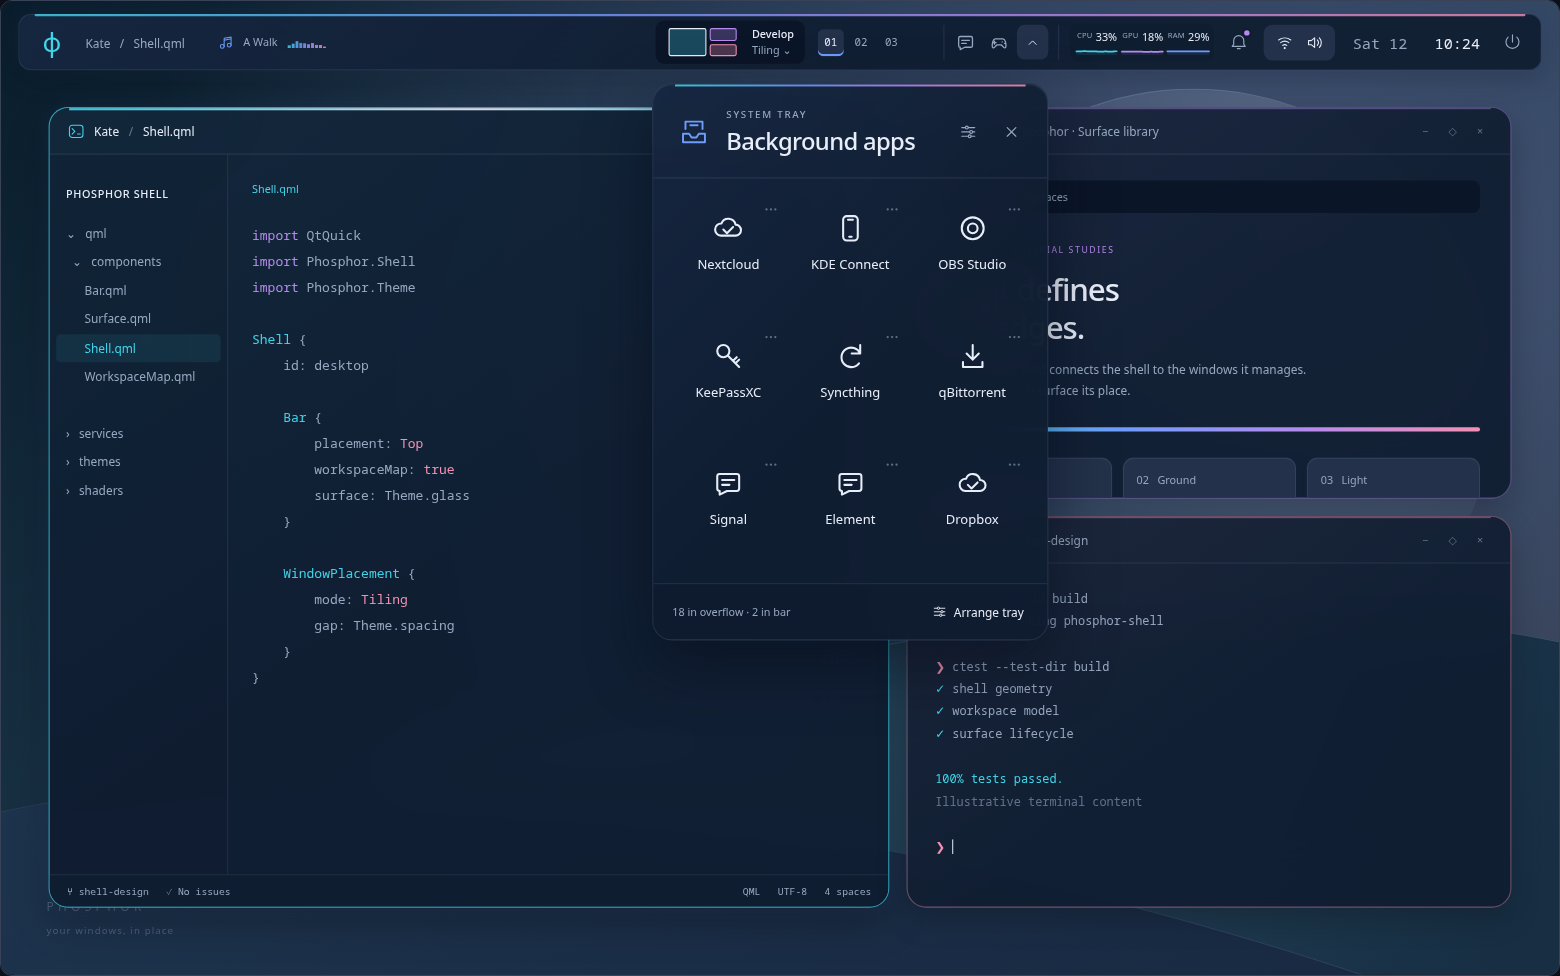
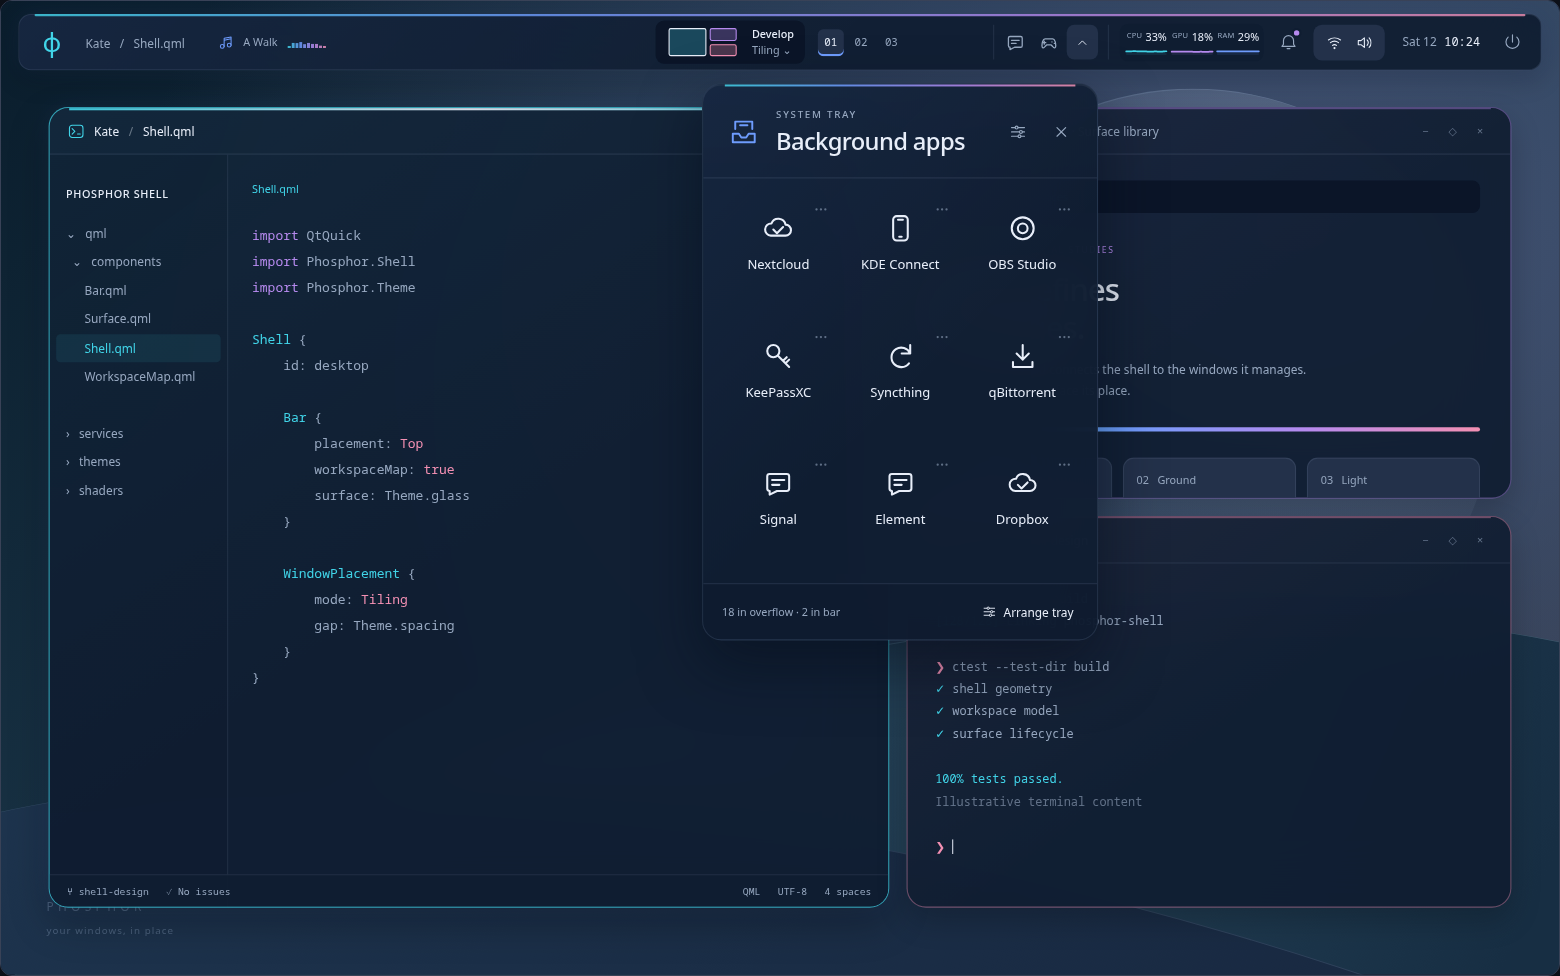
fix(design): tighten bar date and time typography

diff --git a/docs/design/mockups-v3/studies.js b/docs/design/mockups-v3/studies.js
@@ -133,7 +133,7 @@ function renderBar() {
     <div class="bar-right">${systemTray.barMarkup()}${systemStats.barMarkup()}
     <button class="bar-notifications" data-view="notifications" data-unread="${notificationCenter.unread()>0}" aria-label="Notifications, ${notificationCenter.unread()} unread" aria-expanded="${state.view==='notifications'&&notificationCenter.inboxOpen()}" aria-controls="notifications">${icon('bell')}</button>
     <button class="status-cluster" data-view="controls" aria-label="Open quick settings" aria-expanded="${state.view==='controls'}">${icon('wifi')}${icon('volume')}</button>
-    <button class="clock" data-view="datetime" aria-label="Open date and time" aria-expanded="${state.view==='datetime'}" aria-controls="datetime"><span class="clock-date">Sat 12 &nbsp; </span><span style="color:var(--text)">10:24</span></button>
+    <button class="clock" data-view="datetime" aria-label="Open date and time" aria-expanded="${state.view==='datetime'}" aria-controls="datetime"><span class="clock-date">Sat 12</span><span class="clock-time">10:24</span></button>
     <button class="settings-trigger" data-view="appearance" aria-label="Open Appearance">◈</button>
     <button class="bar-power" data-view="power" aria-label="Open session menu" aria-expanded="${state.view==='power'}">${icon('power')}</button></div>`;
   syncVisualizer();

diff --git a/docs/design/mockups-v3/studies.css b/docs/design/mockups-v3/studies.css
@@ -86,8 +86,8 @@ h1{font-size:25px;letter-spacing:-.8px;font-weight:500;margin:7px 0}
 .session-menu kbd{font-size:10px;color:var(--muted);border-color:var(--outline);opacity:0}
 .session-menu button.selected kbd{opacity:1}
 @keyframes session-confirm{to{height:0}}
-.clock{font-variant-numeric:tabular-nums;color:var(--muted);margin-right:9px}
-.clock{padding:9px 10px;border-radius:8px}
+.clock{display:inline-flex;align-items:center;gap:7px;min-height:32px;padding:7px 8px;border-radius:8px;font-size:11px;line-height:1.2;letter-spacing:normal;font-variant-numeric:tabular-nums;white-space:nowrap;color:var(--muted)}
+.clock-date{font-family:var(--ap-font,'Noto Sans'),sans-serif}.clock-time{color:var(--text)}
 .clock[aria-expanded=true]{background:var(--card);color:var(--text);box-shadow:inset 0 -2px var(--c3)}
 #datetime{position:absolute;z-index:10;left:var(--calendar-left,850px);top:calc(var(--bar-size) + 26px);width:410px;padding:var(--pad);animation:enter .2s ease;overflow:hidden}
 #datetime:before{content:'';position:absolute;top:0;left:22px;right:22px;height:2px;background:var(--spectrum)}

diff --git a/docs/design/mockups-v3/system-tray.css b/docs/design/mockups-v3/system-tray.css
@@ -13,7 +13,7 @@
 .desktop[data-edge=bottom] .tray-overflow-trigger>.icon{transform:rotate(180deg)}.desktop[data-edge=bottom] .tray-overflow-trigger[aria-expanded=true]>.icon{transform:none}
 .tray-status-dot{position:absolute;right:4px;top:4px;width:5px;height:5px;border-radius:50%;background:var(--c4);box-shadow:0 0 0 2px var(--bg)}.tray-recording .tray-status-dot{border-radius:1px}
 /* Give the right region room while keeping all controls available. */
-.bar:has(.bar-tray) .ap-live-right{gap:8px}.bar:has(.bar-tray) .clock{margin:0;padding-inline:8px}
+.bar:has(.bar-tray) .ap-live-right{gap:8px}
 .bar-tray:has(+.bar-stats){border-right:1px solid var(--outline);padding-right:9px;margin-right:2px}
 .bar:has(.bar-tray) .stat-bar-reading{width:37px}.bar:has(.bar-tray) .bar-stats{gap:5px;padding-inline:5px}
 .tray-root{position:absolute;inset:0;z-index:14;pointer-events:none;--tray-warning:var(--c4)}
